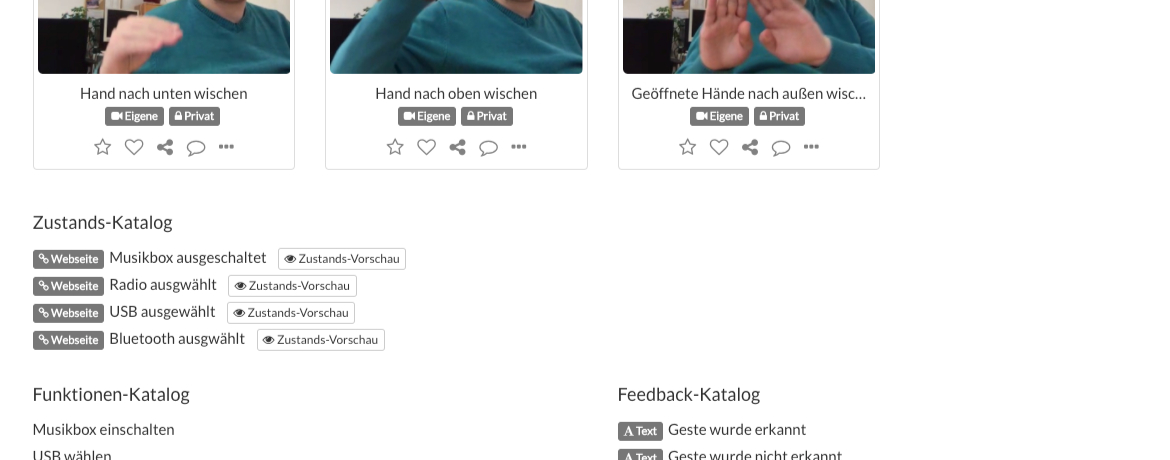
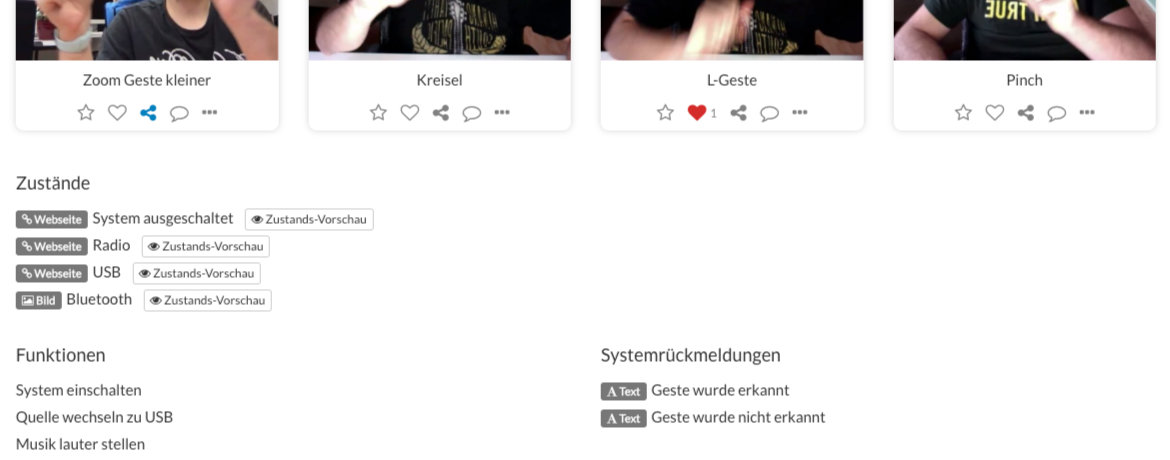
- update introduction contents - update css - update gesture thumbnail infos

diff --git a/js/globalFunctions.js b/js/globalFunctions.js
@@ -2228,9 +2228,11 @@ function initGestureThumbnail(data, typeId, layout, panelStyle) {
     clone.find('#gesture-scope #' + data.scope).removeClass('hidden');
 
     clone.find('.symbol-gesture-execution').addClass(data.type);
-    clone.find('.symbol-gesture-interaction').addClass(data.interactionType);
     clone.find('.symbol-gesture-execution').attr('data-content', translation.gestureTypes[data.type + 's'] + ' ' + translation.gestureType);
+    clone.find('.text-gesture-execution').text(translation.gestureTypes[data.type + 'Short']);
+    clone.find('.symbol-gesture-interaction').addClass(data.interactionType);
     clone.find('.symbol-gesture-interaction').attr('data-content', translation.gestureInteractionTypes[data.interactionType + 's'] + ' ' + translation.gestureInteraction);
+    clone.find('.text-gesture-interaction').text(translation.gestureInteractionTypes[data.interactionType + 'Short']);
     initPopover();
 
     if (panelStyle) {

diff --git a/css/general.css b/css/general.css
@@ -930,6 +930,7 @@ li.disabledTab > a[data-toggle="tab"] {
 
 #help-description .img-image {
     /*border: 1px solid #e7e7e7;*/
+    margin-top: 20px;
 }
 
 #help-description {
@@ -949,14 +950,14 @@ li.disabledTab > a[data-toggle="tab"] {
 }
 
 #help-description .image-caption {
-    position: absolute;
-    bottom:0px;
+/*    position: absolute;
+    bottom:0px;*/
     width: 100%;
-    background-color: rgba(0,0,0,.7);
-    color: white;
-    padding: 5px 8px;
-    font-size: 10pt;
-    line-height: 13pt;
+    /*background-color: rgba(0,0,0,.7);*/
+    color: #888;
+    margin-bottom: 10px;
+    font-size: 9pt;
+    /*line-height: 13pt;*/
 }
 
 #help-description .image-border-rounded {

diff --git a/css/gesture.css b/css/gesture.css
@@ -323,7 +323,7 @@ and open the template in the editor.
 }
 
 .symbol-gesture-execution {
-    margin-right: 4px;
+    margin-right: 6px;
 }
 
 .symbol-gesture-execution.pose {
@@ -340,4 +340,13 @@ and open the template in the editor.
 
 .symbol-gesture-interaction.continuous {
     background-color: #FFCB00;
+}
+
+.gesture-info-symbol-text {
+    font-size: 8pt; 
+    position: relative; 
+    top: 5px; 
+    line-height: 0pt;
+    margin-right: 1px;
+    text-transform: uppercase;
 }

diff --git a/externals/template-gesture.php b/externals/template-gesture.php
@@ -26,7 +26,9 @@ include '../includes/language.php';
                     </div>
                 </div>
                 <div class="gesture-info-symbols">
+                    <span class="gesture-info-symbol-text text-gesture-execution"></span>
                     <div class="gesture-info-symbol symbol-gesture-execution" data-toggle="popover" data-trigger="hover" data-placement="auto" data-content=""></div>
+                    <span class="gesture-info-symbol-text text-gesture-interaction"></span>
                     <div class="gesture-info-symbol symbol-gesture-interaction" data-toggle="popover" data-trigger="hover" data-placement="auto" data-content=""></div>
                 </div>
             </div>
@@ -59,7 +61,9 @@ include '../includes/language.php';
                     </div>
                 </div>
                 <div class="gesture-info-symbols">
+                    <span class="gesture-info-symbol-text text-gesture-execution"></span>
                     <div class="gesture-info-symbol symbol-gesture-execution" data-toggle="popover" data-trigger="hover" data-placement="auto" data-content=""></div>
+                    <span class="gesture-info-symbol-text text-gesture-interaction"></span>
                     <div class="gesture-info-symbol symbol-gesture-interaction" data-toggle="popover" data-trigger="hover" data-placement="auto" data-content=""></div>
                 </div>
             </div>
@@ -94,7 +98,9 @@ include '../includes/language.php';
                     </div>
                 </div>
                 <div class="gesture-info-symbols">
+                    <span class="gesture-info-symbol-text text-gesture-execution"></span>
                     <div class="gesture-info-symbol symbol-gesture-execution" data-toggle="popover" data-trigger="hover" data-placement="auto" data-content=""></div>
+                    <span class="gesture-info-symbol-text text-gesture-interaction"></span>
                     <div class="gesture-info-symbol symbol-gesture-interaction" data-toggle="popover" data-trigger="hover" data-placement="auto" data-content=""></div>
                 </div>
             </div>
@@ -156,34 +162,34 @@ include '../includes/language.php';
         </div>
     </div>
 
-<!--    <div class="root" id="exploration-gestures-catalog-thumbnail">
-        <div class="panel panel-default btn-gesture-shadow">
-            <div class="panel-heading" style="text-overflow:ellipsis; white-space:nowrap; overflow: hidden;">
-                <span class="title-text ellipsis" style="position: relative; top: 1px;"></span>
-            </div>
-
-            <div class="panel-body">
-                <div class="embed-responsive embed-responsive-4by3">
-                    <div class="previewGesture"></div>
-                    <div class="text-center hidden gestureControls">
-                        <div class="btn-group">
-                            <button type="button" class="btn btn-default btn-play-gesture"><i class="fa fa-play"></i></button>
-                            <button type="button" class="btn btn-default btn-pause-gesture"><i class="fa fa-stop"></i></button>
-                            <button type="button" class="btn btn-default btn-step-backward-gesture"><i class="fa fa-backward"></i></button>
-                            <button type="button" class="btn btn-default btn-step-forward-gesture"><i class="fa fa-forward"></i></button>
+    <!--    <div class="root" id="exploration-gestures-catalog-thumbnail">
+            <div class="panel panel-default btn-gesture-shadow">
+                <div class="panel-heading" style="text-overflow:ellipsis; white-space:nowrap; overflow: hidden;">
+                    <span class="title-text ellipsis" style="position: relative; top: 1px;"></span>
+                </div>
+    
+                <div class="panel-body">
+                    <div class="embed-responsive embed-responsive-4by3">
+                        <div class="previewGesture"></div>
+                        <div class="text-center hidden gestureControls">
+                            <div class="btn-group">
+                                <button type="button" class="btn btn-default btn-play-gesture"><i class="fa fa-play"></i></button>
+                                <button type="button" class="btn btn-default btn-pause-gesture"><i class="fa fa-stop"></i></button>
+                                <button type="button" class="btn btn-default btn-step-backward-gesture"><i class="fa fa-backward"></i></button>
+                                <button type="button" class="btn btn-default btn-step-forward-gesture"><i class="fa fa-forward"></i></button>
+                            </div>
+                        </div>
+                    </div>
+                </div>
+                <div class="panel-footer">
+                    <div class="btn-group btn-group-justified">
+                        <div class="btn-group" role="group">
+                            <button type="button" class="btn btn-default" id="btn-show-gesture-info"><span class="btn-text">Mehr</span></button>
                         </div>
                     </div>
                 </div>
             </div>
-            <div class="panel-footer">
-                <div class="btn-group btn-group-justified">
-                    <div class="btn-group" role="group">
-                        <button type="button" class="btn btn-default" id="btn-show-gesture-info"><span class="btn-text">Mehr</span></button>
-                    </div>
-                </div>
-            </div>
-        </div>
-    </div>-->
+        </div>-->
 
     <div class="root" id="favorite-gesture-catalog-thumbnail">
         <div class="thumbnail gesture-thumbnail btn-gesture-shadow">
@@ -201,7 +207,9 @@ include '../includes/language.php';
                     <i class="fa fa-asterisk"></i>
                 </div>
                 <div class="gesture-info-symbols">
+                    <span class="gesture-info-symbol-text text-gesture-execution"></span>
                     <div class="gesture-info-symbol symbol-gesture-execution" data-toggle="popover" data-trigger="hover" data-placement="auto" data-content=""></div>
+                    <span class="gesture-info-symbol-text text-gesture-interaction"></span>
                     <div class="gesture-info-symbol symbol-gesture-interaction" data-toggle="popover" data-trigger="hover" data-placement="auto" data-content=""></div>
                 </div>
             </div>
@@ -217,35 +225,35 @@ include '../includes/language.php';
         </div>
     </div>
 
-<!--    <div class="root" id="study-gesture-catalog-thumbnail">
-        <div class="panel panel-default btn-gesture-shadow">
-            <div class="panel-heading" style="text-overflow:ellipsis; white-space:nowrap; overflow: hidden;">
-                <span class="title-text ellipsis" style="position: relative; top: 1px;"></span>
-            </div>
-
-            <div class="panel-body">
-                <div class="previewGesture embed-responsive embed-responsive-4by3"></div>
-                <div class="text-center hidden gestureControls">
-                    <div class="btn-group">
-                        <button type="button" class="btn btn-default btn-play-gesture"><i class="fa fa-play"></i></button>
-                        <button type="button" class="btn btn-default btn-pause-gesture"><i class="fa fa-stop"></i></button>
-                        <button type="button" class="btn btn-default btn-step-backward-gesture"><i class="fa fa-backward"></i></button>
-                        <button type="button" class="btn btn-default btn-step-forward-gesture"><i class="fa fa-forward"></i></button>
+    <!--    <div class="root" id="study-gesture-catalog-thumbnail">
+            <div class="panel panel-default btn-gesture-shadow">
+                <div class="panel-heading" style="text-overflow:ellipsis; white-space:nowrap; overflow: hidden;">
+                    <span class="title-text ellipsis" style="position: relative; top: 1px;"></span>
+                </div>
+    
+                <div class="panel-body">
+                    <div class="previewGesture embed-responsive embed-responsive-4by3"></div>
+                    <div class="text-center hidden gestureControls">
+                        <div class="btn-group">
+                            <button type="button" class="btn btn-default btn-play-gesture"><i class="fa fa-play"></i></button>
+                            <button type="button" class="btn btn-default btn-pause-gesture"><i class="fa fa-stop"></i></button>
+                            <button type="button" class="btn btn-default btn-step-backward-gesture"><i class="fa fa-backward"></i></button>
+                            <button type="button" class="btn btn-default btn-step-forward-gesture"><i class="fa fa-forward"></i></button>
+                        </div>
+                    </div>
+                </div>
+                <div class="panel-footer">
+                    <div class="btn-group btn-group-justified">
+                        <div class="btn-group" role="group">
+                            <button type="button" class="btn btn-untag-as-favorite-gesture" id="btn-untag-as-favorite-gesture"><i class="fa fa-close" aria-hidden="true"></i></button>
+                        </div>
+                        <div class="btn-group" role="group">
+                            <div class="btn-show-gesture-info" data-toggle="popover" data-trigger="hover" data-placement="auto" data-content="<?php echo $lang->showAllGestureInfos ?>"><i class="fa fa-ellipsis-h"></i></div>
+                        </div>
                     </div>
                 </div>
             </div>
-            <div class="panel-footer">
-                <div class="btn-group btn-group-justified">
-                    <div class="btn-group" role="group">
-                        <button type="button" class="btn btn-untag-as-favorite-gesture" id="btn-untag-as-favorite-gesture"><i class="fa fa-close" aria-hidden="true"></i></button>
-                    </div>
-                    <div class="btn-group" role="group">
-                        <div class="btn-show-gesture-info" data-toggle="popover" data-trigger="hover" data-placement="auto" data-content="<?php echo $lang->showAllGestureInfos ?>"><i class="fa fa-ellipsis-h"></i></div>
-                    </div>
-                </div>
-            </div>
-        </div>
-    </div>-->
+        </div>-->
 
 
     <div class="root" id="add-gesture-to-scene-thumbnail">
@@ -264,7 +272,9 @@ include '../includes/language.php';
                     <i class="fa fa-asterisk"></i>
                 </div>
                 <div class="gesture-info-symbols">
+                    <span class="gesture-info-symbol-text text-gesture-execution"></span>
                     <div class="gesture-info-symbol symbol-gesture-execution" data-toggle="popover" data-trigger="hover" data-placement="auto" data-content=""></div>
+                    <span class="gesture-info-symbol-text text-gesture-interaction"></span>
                     <div class="gesture-info-symbol symbol-gesture-interaction" data-toggle="popover" data-trigger="hover" data-placement="auto" data-content=""></div>
                 </div>
             </div>
@@ -304,7 +314,7 @@ include '../includes/language.php';
         </div>
     </div>
 
-    <div class="panel panel-default" id="study-gesture-set-panel">
+    <div class="panel panel-shadow panel-default" id="study-gesture-set-panel">
         <div class="panel-heading">
             <div class="btn-group" style="margin-right: 10px">
                 <button class="btn btn-sm btn-danger btn-shadow" id="btn-delete-gesture-set" data-toggle="popover" data-trigger="hover" data-placement="auto" data-content="<?php echo $lang->deleteGestureSet ?>"><span class="fa fa-trash"></span></button>

diff --git a/help-catalog.php b/help-catalog.php
@@ -22,6 +22,7 @@ include_once 'includes/functions.php';
         <!-- gesturenote specific sources -->
         <link rel="stylesheet" href="css/general.css">
         <link rel="stylesheet" href="css/generalSubPages.css">
+        <link rel="stylesheet" href="css/gesture.css">
 
         <script src="js/storage.js"></script>
         <script src="js/ajax.js"></script>
@@ -52,7 +53,7 @@ include_once 'includes/functions.php';
 
         <div class="container mainContent" style="margin-top: 0px">
             <div class="row">
-                <div class="col-md-4 col-lg-3" id="link-list">
+                <div class="col-md-4 col-lg-3" id="link-list" style="margin-bottom: 30px">
                     <!--<a href="#createStudy" class="smooth-goto">1. Gesten-Design-Studien</a>-->
                 </div>
                 <div class="col-md-8 col-lg-9" id="help-description">
@@ -116,7 +117,7 @@ include_once 'includes/functions.php';
                         $(contentHeadline).text(allHelp[i].content[j].title).css({marginTop: '60px'});
                         $(contentHeadline).prepend(contentHeadlineNumber);
                         $(helpItem).append(contentHeadline);
-                        $(helpItem).append(document.createElement('hr'));
+//                        $(helpItem).append(document.createElement('hr'));
 
                         var link = document.createElement('a');
                         $(link).attr('href', '#' + allHelp[i].id + '-' + allHelp[i].content[j].tabId).addClass('smooth-goto ellipsis').text((i + 1) + '.' + (j + 1) + ' ' + allHelp[i].content[j].title);

diff --git a/externals/template-study.php b/externals/template-study.php
@@ -90,14 +90,14 @@ include '../includes/language.php';
         <div class="row">
             <div class="col-md-6">
                 <div class="text text-center" style="margin-top: 10px;"><?php echo $lang->gestureType ?></div>
-                <canvas id="chart-gesture-execution-type"></canvas>
+                <canvas id="chart-gesture-execution-type" style="max-width: 300px; margin: 0 auto"></canvas>
                 <div class="text text-center" style="font-size: 10pt">
                     <span id="amount-static-gestures"></span>, <span id="amount-dynamic-gestures"></span>, <span id="amount-total-gestures"></span>
                 </div>
             </div>
             <div class="col-md-6">
                 <div class="text text-center" style="margin-top: 10px;"><?php echo $lang->gestureInteractionType ?></div>
-                <canvas id="chart-gesture-interaction-type"></canvas>
+                <canvas id="chart-gesture-interaction-type" style="max-width: 300px; margin: 0 auto"></canvas>
                 <div class="text text-center" style="font-size: 10pt">
                     <span id="amount-discrete-gestures"></span>, <span id="amount-continuous-gestures"></span>
                 </div>

diff --git a/externals/modal-gesture.php b/externals/modal-gesture.php
@@ -547,6 +547,7 @@ include '../includes/language.php';
             return false;
         }
 
+console.log(gesture);
         var container = $('#modal-body');
         container.find('#created .text').text(convertSQLTimestampToDate(gesture.created).toLocaleString());
         container.find('#title .text').text(gesture.title);
@@ -720,6 +721,7 @@ include '../includes/language.php';
             });
         } else {
             $(container).find('#btn-delete-gesture').remove();
+            $(container).find('#btn-edit-gesture').parent().removeClass('col-xs-6').addClass('col-xs-12');
         }
     }
 
